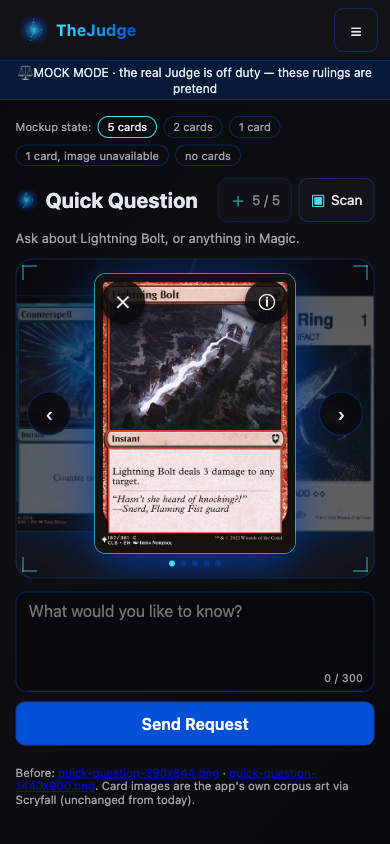
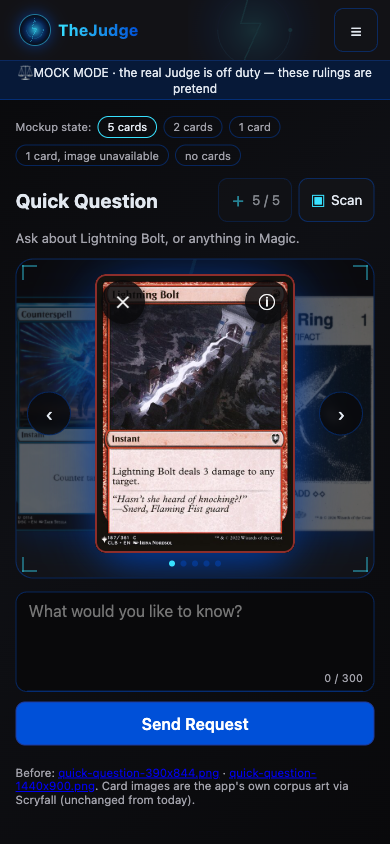
design(ui-reimagining): bring back the card colour-identity ring (owner rule)
Every card surface in the mockups again wears the one-pixel ring in the
card's own colour identity that the shipped app draws (single colour,
WUBRG gradient for multicolour, silver grey for colourless), using the same
colours and masked-border technique as cardIdentityRing.ts. Round 2 had
replaced it with a theme-accent ring; the theme now owns only the glow
behind a card. Lightning Helix added as a multicolour demo card.

diff --git a/docs/design/ui-reimagining/direction-1/in-depth-question.html b/docs/design/ui-reimagining/direction-1/in-depth-question.html
@@ -96,7 +96,7 @@
   .shelf .card {
     position: relative; flex: 0 0 auto; width: var(--tile-w); height: calc(var(--tile-w) * 88 / 63);
     border-radius: 8px; overflow: hidden; background: #111; scroll-snap-align: start;
-    box-shadow: 0 0 0 1px color-mix(in srgb, var(--accent-soft) 40%, transparent), 0 10px 24px -10px color-mix(in srgb, var(--accent) 70%, #000);
+    box-shadow: 0 10px 24px -10px color-mix(in srgb, var(--accent) 70%, #000);
     transition: transform 160ms ease; cursor: pointer;
   }
   .shelf .card:hover { transform: translateY(-3px); }
@@ -118,7 +118,7 @@
   .wizard { display: grid; gap: 0.8rem; }
   @media (min-width: 720px) { .wizard { grid-template-columns: 200px 1fr; align-items: start; } }
   .wizard .hero { position: relative; width: 160px; height: calc(160px * 88 / 63); margin: 0 auto; border-radius: 10px; overflow: hidden;
-    box-shadow: 0 0 0 1px color-mix(in srgb, var(--accent-soft) 55%, transparent), 0 18px 40px -12px color-mix(in srgb, var(--accent) 70%, #000), 0 0 48px -8px color-mix(in srgb, var(--accent) 55%, transparent); }
+    --ring-w: 2px; box-shadow: 0 18px 40px -12px color-mix(in srgb, var(--accent) 70%, #000), 0 0 48px -8px color-mix(in srgb, var(--accent) 55%, transparent); }
   @media (min-width: 720px) { .wizard .hero { width: 200px; height: calc(200px * 88 / 63); } }
   .wizard .hero .card-widget { opacity: 1; transform: none; pointer-events: auto; width: 36px; height: 36px; font-size: 0.9rem; }
   .wizard .counter { text-align: center; font-size: 0.75rem; color: var(--text-muted); margin-top: 0.4rem; }
@@ -137,7 +137,7 @@
   .wizard-nav .btn.ghost { background: transparent; }
   .review { display: grid; gap: 0.4rem; }
   .review .row { display: flex; align-items: center; gap: 0.6rem; padding: 0.35rem 0.4rem; border-radius: 0.5rem; border: 1px solid var(--surface-edge); font-size: 0.82rem; }
-  .review img { width: 28px; height: 39px; border-radius: 3px; object-fit: cover; }
+  .review .thumb { width: 28px; height: 39px; border-radius: 3px; }
   .review .zone { color: var(--text-muted); font-size: 0.7rem; text-transform: uppercase; letter-spacing: 0.06em; margin-left: auto; }
   .summary { font-size: 0.85rem; color: var(--text-muted); }
   .summary b { color: var(--text-primary); font-weight: 600; }
@@ -154,7 +154,7 @@
   .bubble.judge::before { content: ""; position: absolute; inset: 0; border-radius: inherit; background: var(--motif) right -20% top -30% / 55% no-repeat; opacity: 0.06; pointer-events: none; }
   .bubble .who { display: block; font-size: 0.68rem; text-transform: uppercase; letter-spacing: 0.08em; color: var(--accent-soft); margin-bottom: 0.25rem; }
   .bubble .refs { display: flex; gap: 0.4rem; margin: 0.5rem 0 0; }
-  .bubble .refs img { width: 44px; height: 61px; border-radius: 4px; object-fit: cover; cursor: pointer; box-shadow: 0 0 0 1px color-mix(in srgb, var(--accent-soft) 40%, transparent); }
+  .bubble .refs .thumb { width: 44px; height: 61px; border-radius: 4px; cursor: pointer; }
   .followup { display: flex; gap: 0.5rem; align-items: end; }
   .followup .q-wrap { flex: 1; }
   .followup textarea.field { min-height: 44px; padding-bottom: 1.4rem; }
@@ -359,7 +359,7 @@
 
   <script src="flow.js"></script>
   <script>
-    const { img, library, byName, cardMarkup, openDetail, bindComposer } = window.FLOW;
+    const { img, library, byName, cardMarkup, openDetail, bindComposer, applyRing, thumb } = window.FLOW;
     const $ = (s) => document.getElementById(s);
 
     // ---- demo state ----
@@ -368,7 +368,7 @@
     const zoneCards = {
       'Stack': [byName('Lightning Bolt'), byName('Counterspell')],
       'Battlefield': [byName('Sol Ring'), byName('Llanowar Elves')],
-      'Hand': [byName('Swords to Plowshares')]
+      'Hand': [byName('Swords to Plowshares'), byName('Lightning Helix')]
     };
     let activeZone = 'Stack';
     let players = 2;
@@ -434,6 +434,7 @@
           (isStack ? '<span class="pos">' + (i === cards.length - 1 ? 'TOP' : '#' + (i + 1)) + '</span>' : '') + '</div>').join('');
         $('shelf').querySelectorAll('.card').forEach((el) => {
           const c = cards[Number(el.dataset.i)];
+          applyRing(el, c);
           el.querySelector('.remove').addEventListener('click', () => { cards.splice(cards.indexOf(c), 1); renderShelf(); });
           el.querySelector('.info').addEventListener('click', () => openDetail(c));
           el.addEventListener('click', (e) => { if (!e.target.closest('.card-widget')) openDetail(c); });
@@ -450,7 +451,7 @@
       const q = $('card-search').value.trim().toLowerCase();
       const hits = library.filter((c) => !allAttached().includes(c) && (!q || c.name.toLowerCase().includes(q))).slice(0, 4);
       $('search-results').innerHTML = hits.map((c) =>
-        '<button type="button" data-i="' + library.indexOf(c) + '"><img src="' + img(c.id) + '" alt=""><span>' + c.name + '</span><span class="type">' + c.type + '</span></button>').join('');
+        '<button type="button" data-i="' + library.indexOf(c) + '">' + thumb(c) + '<span>' + c.name + '</span><span class="type">' + c.type + '</span></button>').join('');
       $('search-results').querySelectorAll('button').forEach((b) => b.addEventListener('click', () => {
         (zoneCards[activeZone] = zoneCards[activeZone] || []).push(library[Number(b.dataset.i)]);
         $('card-search').value = ''; closeSearch(); renderShelf();
@@ -480,12 +481,13 @@
       if (!done) {
         const { zone, card } = q[wiz];
         $('wizard-hero').innerHTML = cardMarkup(card, { noRemove: true });
+        applyRing($('wizard-hero'), card);
         $('wizard-hero').querySelector('.info').addEventListener('click', () => openDetail(card));
         $('wiz-n').textContent = wiz + 1; $('wiz-total').textContent = q.length; $('wiz-zone').textContent = zone;
         $('f-target-card').innerHTML = '<option value="">Select card…</option>' + q.filter((e) => e.card !== card).map((e) => '<option>' + e.card.name + ' (' + e.zone + ')</option>').join('');
         $('wiz-next').textContent = wiz < q.length - 1 ? 'OK — next card' : 'OK — finish context';
       } else {
-        $('review').innerHTML = q.map((e) => '<div class="row"><img src="' + img(e.card.id) + '" alt=""><span>' + e.card.name + '</span><span class="zone">' + e.zone + '</span></div>').join('');
+        $('review').innerHTML = q.map((e) => '<div class="row">' + thumb(e.card) + '<span>' + e.card.name + '</span><span class="zone">' + e.zone + '</span></div>').join('');
         $('sum-zones').innerHTML = zoneChips();
         $('sum-phase').textContent = $('turn-phase').value + ', ' + $('active-player').value + ' active';
       }
@@ -512,11 +514,11 @@
         (stack.length >= 2
           ? 'The top of the stack resolves first. Counterspell was cast in response to Lightning Bolt, so it resolves first and counters the Bolt — Lightning Bolt is put into its owner\'s graveyard and deals no damage. Sol Ring and Llanowar Elves on the battlefield are untouched, and Swords to Plowshares in hand could still be cast with priority after the stack empties.'
           : 'With ' + q.length + ' card' + (q.length === 1 ? '' : 's') + ' in context, nothing is on the stack — priority passes and the active player continues their ' + $('turn-phase').value + '.') +
-        '<div class="refs">' + q.map((e) => '<img src="' + img(e.card.id) + '" alt="' + e.card.name + '" data-name="' + e.card.name + '">').join('') + '</div></div>';
-      $('thread').querySelectorAll('.refs img').forEach((i) => i.addEventListener('click', () => openDetail(byName(i.dataset.name))));
+        '<div class="refs">' + q.map((e) => thumb(e.card).replace('<span class="thumb', '<span data-name="' + e.card.name + '" class="thumb')).join('') + '</div></div>';
+      $('thread').querySelectorAll('.refs .thumb').forEach((i) => i.addEventListener('click', () => openDetail(byName(i.dataset.name))));
       $('ctx-fields').innerHTML =
         '<dt>Turn phase</dt><dd>' + $('turn-phase').value + '</dd><dt>Active player</dt><dd>' + $('active-player').value + '</dd><dt>Players</dt><dd>' + players + '</dd>';
-      $('ctx-cards').innerHTML = q.map((e) => '<div class="row"><img src="' + img(e.card.id) + '" alt=""><span>' + e.card.name + '</span><span class="zone">' + e.zone + '</span></div>').join('');
+      $('ctx-cards').innerHTML = q.map((e) => '<div class="row">' + thumb(e.card) + '<span>' + e.card.name + '</span><span class="zone">' + e.zone + '</span></div>').join('');
     }
     bindComposer($('followup-field'), $('fu-count'), $('fu-meter'));
     function openCtx() { document.documentElement.dataset.trayOpen = 'true'; $('ctx-panel').dataset.open = 'true'; }

diff --git a/docs/design/ui-reimagining/direction-1/flow.js b/docs/design/ui-reimagining/direction-1/flow.js
@@ -9,16 +9,30 @@ window.FLOW = (() => {
 
   // real corpus fields (cardMetadata.json imageId + cardDetailByOracleId) for the demo cards
   const library = [
-    { name: 'Lightning Bolt',       id: '132dc07f-74e2-4bd7-bdb1-4f5d5253c7f2', type: 'Instant',              cost: '{R}',    mv: 1, colors: 'Red',   sub: '—',          price: '$3.20',  oracle: 'Lightning Bolt deals 3 damage to any target.' },
-    { name: 'Sol Ring',             id: '0ab38fe7-1929-44f6-b4ce-ce8cfacbfb76', type: 'Artifact',             cost: '{1}',    mv: 1, colors: '—',     sub: '—',          price: '$1.85',  oracle: '{T}: Add {C}{C}.' },
-    { name: 'Llanowar Elves',       id: '2526a07a-0b92-4e31-81fe-14fb067b5821', type: 'Creature — Elf Druid', cost: '{G}',    mv: 1, colors: 'Green', sub: 'Elf, Druid', price: '$0.75',  oracle: '{T}: Add {G}.' },
-    { name: 'Swords to Plowshares', id: '68ec2aed-7662-48ae-ab25-04f74ece1e41', type: 'Instant',              cost: '{W}',    mv: 1, colors: 'White', sub: '—',          price: '$0.60',  oracle: 'Exile target creature. Its controller gains life equal to its power.' },
-    { name: 'Counterspell',         id: '4f616706-ec97-4923-bb1e-11a69fbaa1f8', type: 'Instant',              cost: '{U}{U}', mv: 2, colors: 'Blue',  sub: '—',          price: '$1.10',  oracle: 'Counter target spell.' },
-    { name: 'Rhystic Study',        id: '9f37c5b6-a59c-45cd-9a99-e9357fe9ea1b', type: 'Enchantment',          cost: '{2}{U}', mv: 3, colors: 'Blue',  sub: '—',          price: '$32.00', oracle: 'Whenever an opponent casts a spell, you may draw a card unless that player pays {1}.' },
-    { name: 'Path to Exile',        id: '177bd28f-8c83-4a91-a025-33312539d222', type: 'Instant',              cost: '{W}',    mv: 1, colors: 'White', sub: '—',          price: '$2.40',  oracle: 'Exile target creature. Its controller may search their library for a basic land card, put that card onto the battlefield tapped, then shuffle.' },
-    { name: 'Birds of Paradise',    id: '3ffe931c-9f19-4ea5-bc24-041eb00a5862', type: 'Creature — Bird',      cost: '{G}',    mv: 1, colors: 'Green', sub: 'Bird',       price: '$6.10',  oracle: 'Flying\n{T}: Add one mana of any color.' }
+    { name: 'Lightning Bolt',       id: '132dc07f-74e2-4bd7-bdb1-4f5d5253c7f2', colors: ['R'], type: 'Instant',              cost: '{R}',    mv: 1, colorsLabel: 'Red',   sub: '—',          price: '$3.20',  oracle: 'Lightning Bolt deals 3 damage to any target.' },
+    { name: 'Sol Ring',             id: '0ab38fe7-1929-44f6-b4ce-ce8cfacbfb76', colors: [], type: 'Artifact',             cost: '{1}',    mv: 1, colorsLabel: '—',     sub: '—',          price: '$1.85',  oracle: '{T}: Add {C}{C}.' },
+    { name: 'Llanowar Elves',       id: '2526a07a-0b92-4e31-81fe-14fb067b5821', colors: ['G'], type: 'Creature — Elf Druid', cost: '{G}',    mv: 1, colorsLabel: 'Green', sub: 'Elf, Druid', price: '$0.75',  oracle: '{T}: Add {G}.' },
+    { name: 'Swords to Plowshares', id: '68ec2aed-7662-48ae-ab25-04f74ece1e41', colors: ['W'], type: 'Instant',              cost: '{W}',    mv: 1, colorsLabel: 'White', sub: '—',          price: '$0.60',  oracle: 'Exile target creature. Its controller gains life equal to its power.' },
+    { name: 'Counterspell',         id: '4f616706-ec97-4923-bb1e-11a69fbaa1f8', colors: ['U'], type: 'Instant',              cost: '{U}{U}', mv: 2, colorsLabel: 'Blue',  sub: '—',          price: '$1.10',  oracle: 'Counter target spell.' },
+    { name: 'Rhystic Study',        id: '9f37c5b6-a59c-45cd-9a99-e9357fe9ea1b', colors: ['U'], type: 'Enchantment',          cost: '{2}{U}', mv: 3, colorsLabel: 'Blue',  sub: '—',          price: '$32.00', oracle: 'Whenever an opponent casts a spell, you may draw a card unless that player pays {1}.' },
+    { name: 'Path to Exile',        id: '177bd28f-8c83-4a91-a025-33312539d222', colors: ['W'], type: 'Instant',              cost: '{W}',    mv: 1, colorsLabel: 'White', sub: '—',          price: '$2.40',  oracle: 'Exile target creature. Its controller may search their library for a basic land card, put that card onto the battlefield tapped, then shuffle.' },
+    { name: 'Lightning Helix',      id: '4101e3fe-b0e7-4f0f-b9ac-9b61a4d628b3', colors: ['W', 'R'], type: 'Instant',           cost: '{R}{W}', mv: 2, colorsLabel: 'White, Red', sub: '—', price: '$0.90', oracle: 'Lightning Helix deals 3 damage to any target and you gain 3 life.' },
+    { name: 'Birds of Paradise',    id: '3ffe931c-9f19-4ea5-bc24-041eb00a5862', colors: ['G'], type: 'Creature — Bird',      cost: '{G}',    mv: 1, colorsLabel: 'Green', sub: 'Bird',       price: '$6.10',  oracle: 'Flying\n{T}: Add one mana of any color.' }
   ];
   const byName = (n) => library.find((c) => c.name === n);
+
+  // card identity ring — same colours and rules as the app's cardIdentityRing.ts
+  const RING = { W: 'rgb(248 231 185 / 0.55)', U: 'rgb(14 165 233 / 0.55)', B: 'rgb(113 113 122 / 0.55)', R: 'rgb(239 68 68 / 0.55)', G: 'rgb(34 197 94 / 0.55)' };
+  function ring(colors) {
+    const c = ['W', 'U', 'B', 'R', 'G'].filter((x) => (colors || []).includes(x));
+    if (!c.length) return 'rgb(148 163 184 / 0.55)';
+    if (c.length === 1) return RING[c[0]];
+    return 'linear-gradient(90deg, ' + c.map((x) => RING[x]).join(', ') + ')';
+  }
+  function applyRing(el, card) { el.classList.add('card-identity-ring'); el.style.setProperty('--card-identity-ring', ring(card.colors)); }
+  const ringAttr = (card) => 'class="card-identity-ring" style="--card-identity-ring:' + ring(card.colors) + '"';
+  // a small ringed thumbnail
+  const thumb = (card, extra = '') => '<span class="thumb card-identity-ring' + (extra ? ' ' + extra : '') + '" style="--card-identity-ring:' + ring(card.colors) + '"><img src="' + img(card.id) + '" alt="' + card.name + '"></span>';
 
   // inner markup of a .card: the art (or the name-only fallback) plus the two corner widgets
   function cardMarkup(c, opts = {}) {
@@ -56,7 +70,7 @@ window.FLOW = (() => {
       '<dt>Mana cost</dt><dd>' + c.cost + '</dd>' +
       '<dt>Mana value</dt><dd>' + c.mv + '</dd>' +
       '<dt>Type</dt><dd>' + c.type + '</dd>' +
-      '<dt>Colors</dt><dd>' + c.colors + '</dd>' +
+      '<dt>Colors</dt><dd>' + c.colorsLabel + '</dd>' +
       '<dt>Subtypes</dt><dd>' + c.sub + '</dd>' +
       '<dt>Price</dt><dd class="price">' + c.price + ' (nonfoil)</dd>';
     $('detail-oracle').textContent = c.oracle;
@@ -84,5 +98,5 @@ window.FLOW = (() => {
   }
 
   document.addEventListener('DOMContentLoaded', ensureDetailPanel);
-  return { img, library, byName, cardMarkup, openDetail, closeDetail, bindComposer };
+  return { img, library, byName, cardMarkup, openDetail, closeDetail, bindComposer, ring, applyRing, ringAttr, thumb };
 })();

diff --git a/docs/design/ui-reimagining/direction-1/trade-balancer.html b/docs/design/ui-reimagining/direction-1/trade-balancer.html
@@ -69,7 +69,7 @@
   .entries { display: grid; gap: 0.45rem; }
   .entry { display: grid; grid-template-columns: 56px 1fr auto; gap: 0.6rem; align-items: center; padding: 0.45rem; border-radius: 0.75rem; border: 1px solid var(--surface-edge); background: color-mix(in srgb, var(--surface-ground) 45%, transparent); }
   .entry .card { position: relative; width: 56px; height: 78px; border-radius: 4px; overflow: hidden; cursor: pointer;
-    box-shadow: 0 0 0 1px color-mix(in srgb, var(--accent-soft) 35%, transparent), 0 8px 18px -8px color-mix(in srgb, var(--accent) 70%, #000); }
+    box-shadow: 0 8px 18px -8px color-mix(in srgb, var(--accent) 70%, #000); }
   .entry .card img { width: 100%; height: 100%; object-fit: cover; }
   .entry[data-foil="true"] .card::after { content: ""; position: absolute; inset: 0; background: linear-gradient(115deg, transparent 30%, rgba(255,255,255,0.35) 45%, rgba(120,200,255,0.25) 55%, transparent 70%); mix-blend-mode: screen; pointer-events: none; }
   .entry .info { min-width: 0; display: grid; gap: 0.15rem; }
@@ -99,7 +99,7 @@
   .printing-list { display: grid; gap: 0.3rem; margin-top: 0.6rem; }
   .printing-list button { display: grid; grid-template-columns: 40px 1fr auto; gap: 0.6rem; align-items: center; text-align: left; padding: 0.35rem; border-radius: 0.6rem; border: 1px solid var(--surface-edge); background: transparent; color: var(--text-primary); cursor: pointer; }
   .printing-list button[aria-pressed="true"] { border-color: var(--accent-soft); background: color-mix(in srgb, var(--accent) 22%, var(--surface-panel)); }
-  .printing-list img { width: 40px; height: 56px; border-radius: 3px; object-fit: cover; }
+  .printing-list .thumb { width: 40px; height: 56px; border-radius: 3px; }
   .printing-list .set { font-size: 0.85rem; }
   .printing-list .set small { display: block; color: var(--text-muted); font-size: 0.7rem; }
   .printing-list .pr { font-size: 0.78rem; color: var(--accent-soft); text-align: right; white-space: nowrap; }
@@ -191,7 +191,7 @@
 
   <script src="flow.js"></script>
   <script>
-    const { img, library, byName, openDetail } = window.FLOW;
+    const { img, library, byName, openDetail, ringAttr, thumb } = window.FLOW;
     const $ = (s) => document.getElementById(s);
     const usd = (n) => '$' + n.toFixed(2);
 
@@ -204,13 +204,14 @@
       'Counterspell': [['Commander Masters', 'CMM', 1.10, 2.80], ['Modern Horizons 2', 'MH2', 1.60, 5.40]],
       'Rhystic Study': [['Commander Masters', 'CMM', 32.00, 41.00], ['Prophecy', 'PCY', 44.00, 320.00]],
       'Path to Exile': [['Commander Masters', 'CMM', 2.40, 5.00]],
-      'Birds of Paradise': [['Ravnica Remastered', 'RVR', 6.10, 13.50]]
+      'Birds of Paradise': [['Ravnica Remastered', 'RVR', 6.10, 13.50]],
+      'Lightning Helix': [['Ravnica Remastered', 'RVR', 0.90, 3.40]]
     };
     let uid = 0;
     const entry = (name, side, opts = {}) => ({ id: ++uid, card: byName(name), side, printing: opts.printing || 0, foil: !!opts.foil, qty: opts.qty || 1 });
     let entries = [
       entry('Lightning Bolt', 'a'), entry('Sol Ring', 'a', { qty: 2 }),
-      entry('Llanowar Elves', 'b'), entry('Counterspell', 'b', { foil: true }), entry('Swords to Plowshares', 'b')
+      entry('Llanowar Elves', 'b'), entry('Counterspell', 'b', { foil: true }), entry('Swords to Plowshares', 'b'), entry('Lightning Helix', 'b')
     ];
     let cash = { a: 0, b: 0 };
     let names = { a: 'Side A', b: 'Side B' };
@@ -250,7 +251,7 @@
         const rows = list.map((e) => {
           const p = PRINTINGS[e.card.name][e.printing]; const u = unit(e);
           return '<div class="entry" data-id="' + e.id + '" data-foil="' + e.foil + '">' +
-            '<div class="card" title="Card details"><img src="' + img(e.card.id) + '" alt="' + e.card.name + '"></div>' +
+            '<div ' + ringAttr(e.card).replace('class="', 'class="card ') + ' title="Card details"><img src="' + img(e.card.id) + '" alt="' + e.card.name + '"></div>' +
             '<div class="info"><span class="nm">' + e.card.name + '</span>' +
             '<span class="printing">' + p[0] + ' · ' + p[1] + ' <button data-act="printing">Change printing</button></span>' +
             '<div class="controls">' +
@@ -308,7 +309,7 @@
         const draw = () => {
           const q = input.value.trim().toLowerCase();
           const hits = library.filter((c) => !q || c.name.toLowerCase().includes(q)).slice(0, 4);
-          results.innerHTML = hits.map((c) => '<button type="button" data-n="' + c.name + '"><img src="' + img(c.id) + '" alt=""><span>' + c.name + '</span><span class="type">' + usd(PRINTINGS[c.name][0][2]) + '</span></button>').join('');
+          results.innerHTML = hits.map((c) => '<button type="button" data-n="' + c.name + '">' + thumb(c) + '<span>' + c.name + '</span><span class="type">' + usd(PRINTINGS[c.name][0][2]) + '</span></button>').join('');
           results.querySelectorAll('button').forEach((b) => b.addEventListener('click', () => { entries.push(entry(b.dataset.n, s)); openSearch = null; render(); }));
         };
         input.addEventListener('input', draw);
@@ -323,7 +324,7 @@
       ppEntry = e;
       $('pp-title').textContent = 'Printings of ' + e.card.name;
       $('pp-list').innerHTML = PRINTINGS[e.card.name].map((p, i) =>
-        '<button aria-pressed="' + (i === e.printing) + '" data-i="' + i + '"><img src="' + img(e.card.id) + '" alt=""><span class="set">' + p[0] + '<small>' + p[1] + '</small></span><span class="pr">' + usd(p[2]) + '<br>' + (p[3] === null ? 'no foil price' : usd(p[3]) + ' foil') + '</span></button>').join('');
+        '<button aria-pressed="' + (i === e.printing) + '" data-i="' + i + '">' + thumb(e.card) + '<span class="set">' + p[0] + '<small>' + p[1] + '</small></span><span class="pr">' + usd(p[2]) + '<br>' + (p[3] === null ? 'no foil price' : usd(p[3]) + ' foil') + '</span></button>').join('');
       $('pp-list').querySelectorAll('button').forEach((b) => b.addEventListener('click', () => { ppEntry.printing = Number(b.dataset.i); if (PRINTINGS[ppEntry.card.name][ppEntry.printing][3] === null) ppEntry.foil = false; closePrinting(); render(); }));
       document.documentElement.dataset.trayOpen = 'true'; $('pp-panel').dataset.open = 'true';
     }

diff --git a/docs/design/ui-reimagining/direction-1/flow.css b/docs/design/ui-reimagining/direction-1/flow.css
@@ -84,16 +84,14 @@
   opacity: calc(1 - 0.45 * var(--ad));
   filter: brightness(calc(1 - 0.35 * var(--ad))) blur(calc(var(--ad) * 0.6px));
   z-index: calc(10 - var(--ad));
-  box-shadow:
-    0 0 0 1px color-mix(in srgb, var(--accent-soft) 45%, transparent),
-    0 18px 40px -12px color-mix(in srgb, var(--accent) 70%, #000);
+  box-shadow: 0 18px 40px -12px color-mix(in srgb, var(--accent) 70%, #000);
+  --ring-w: 2px;
   transition: transform 280ms ease, opacity 280ms ease, filter 280ms ease;
   cursor: pointer;
 }
 .ring .card[data-offstage="true"] { opacity: 0; pointer-events: none; }
 .ring .card[data-front="true"] {
   box-shadow:
-    0 0 0 1px color-mix(in srgb, var(--accent-soft) 60%, transparent),
     0 18px 40px -12px color-mix(in srgb, var(--accent) 70%, #000),
     0 0 64px -8px color-mix(in srgb, var(--accent) 60%, transparent);
   cursor: default;
@@ -154,7 +152,7 @@
   border: 1px solid transparent; background: transparent; color: var(--text-primary); cursor: pointer;
 }
 .search-results button:hover { border-color: var(--surface-edge); background: var(--surface-panel); }
-.search-results img { width: 28px; height: 39px; border-radius: 3px; object-fit: cover; }
+.search-results .thumb { width: 28px; height: 39px; border-radius: 3px; }
 .search-results .type { color: var(--text-muted); font-size: 0.78rem; margin-left: auto; }
 
 /* ---- composer: the question box with its character budget built into the frame ---- */
@@ -193,6 +191,26 @@
 .detail-panel .oracle small { display: block; color: var(--text-muted); font-size: 0.7rem; text-transform: uppercase; letter-spacing: 0.08em; margin-bottom: 0.3rem; }
 .detail-panel .price { color: var(--accent-soft); font-weight: 600; }
 .price { color: var(--accent-soft); font-weight: 600; }
+
+/* ---- card identity ring (Rule, 2026-09-24): every card surface keeps the
+   one-pixel ring in the card's own colour identity that today's app draws —
+   the theme owns the glow behind the card, never its edge. Same colours and
+   masked-border technique as apps/frontend/src/lib/cardIdentityRing.ts:
+   one colour = that colour, multicolour = a left-to-right gradient in WUBRG
+   order, colourless = silver grey. ---- */
+.card-identity-ring { position: relative; isolation: isolate; }
+.card-identity-ring::before {
+  content: ""; position: absolute; inset: 0; z-index: 4; border-radius: inherit;
+  padding: var(--ring-w, 1px); pointer-events: none;
+  background: var(--card-identity-ring, rgb(148 163 184 / 0.55));
+  -webkit-mask: linear-gradient(#fff 0 0) content-box, linear-gradient(#fff 0 0);
+  -webkit-mask-composite: xor;
+  mask: linear-gradient(#fff 0 0) content-box, linear-gradient(#fff 0 0);
+  mask-composite: exclude;
+}
+/* a small card thumbnail that carries the ring */
+.thumb { display: inline-block; flex: 0 0 auto; border-radius: 4px; overflow: hidden; line-height: 0; background: #111; }
+.thumb img { display: block; width: 100%; height: 100%; object-fit: cover; }
 
 /* the hidden attribute always wins over a component's own display value */
 [hidden] { display: none !important; }

diff --git a/docs/design/ui-reimagining/direction-1/quick-question.html b/docs/design/ui-reimagining/direction-1/quick-question.html
@@ -114,7 +114,7 @@
 
   <script src="flow.js"></script>
   <script>
-    const { img, library, cardMarkup, openDetail, bindComposer } = window.FLOW;
+    const { img, library, cardMarkup, openDetail, bindComposer, applyRing, thumb } = window.FLOW;
     const starter = library.slice(0, 5);
     let attached = starter.slice();
     let focus = 0;
@@ -134,6 +134,7 @@
       const el = document.createElement('div');
       el.className = 'card';
       el.innerHTML = cardMarkup(c, { broken: breakImages });
+      applyRing(el, c);
       el.addEventListener('click', (e) => {
         if (e.target.closest('.card-widget')) return;
         if (el.dataset.front !== 'true') { focus = attached.indexOf(c); render(); }
@@ -180,7 +181,7 @@
       const q = $('card-search').value.trim().toLowerCase();
       const hits = library.filter((c) => !attached.includes(c) && (!q || c.name.toLowerCase().includes(q))).slice(0, 4);
       $('search-results').innerHTML = hits.map((c, i) =>
-        '<button type="button" data-i="' + library.indexOf(c) + '"><img src="' + img(c.id) + '" alt=""><span>' + c.name + '</span><span class="type">' + c.type + '</span></button>'
+        '<button type="button" data-i="' + library.indexOf(c) + '">' + thumb(c) + '<span>' + c.name + '</span><span class="type">' + c.type + '</span></button>'
       ).join('');
       $('search-results').querySelectorAll('button').forEach((b) => b.addEventListener('click', () => {
         attached.push(library[Number(b.dataset.i)]);

diff --git a/docs/design/ui-reimagining/README.md b/docs/design/ui-reimagining/README.md
@@ -188,6 +188,16 @@ Shared pieces added this round, so the flows read as one product:
 
 #### Global
 
+- Rule (owner, 2026-09-24): **every card keeps its colour-identity ring.**
+  Today's app draws a one-pixel ring in the card's own colours around every
+  card tile (one colour, a WUBRG-ordered gradient for multicolour, silver
+  grey for colourless — `apps/frontend/src/lib/cardIdentityRing.ts`). Round
+  2 had replaced it with a ring in the theme accent; that was a regression,
+  not a design choice. Fixed: `flow.css .card-identity-ring` uses the same
+  colours and masked-border technique on every card surface (ring, shelf,
+  context hero, thumbnails, trade entries, printing picker). The theme owns
+  the glow behind a card, never its edge. Lightning Helix (white/red) was
+  added to In-Depth's Hand and Trade Balancer's Side B to show the gradient.
 - Every page uses the motif as the ornament: stage watermark, corner marks
   on the lit surfaces, the header edge, the judge's answer bubble. Intensity
   stays restrained (0.06–0.16 opacity) so card art wins.
